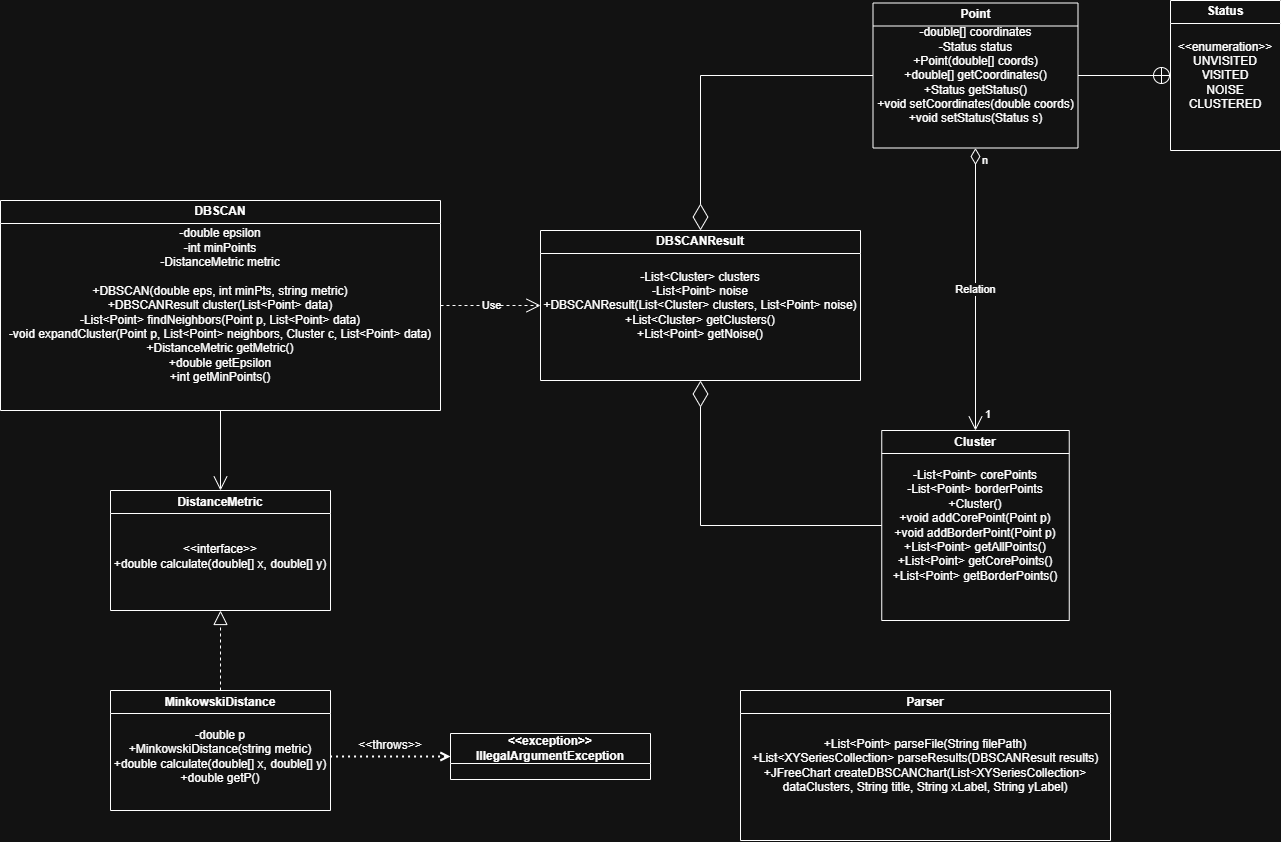
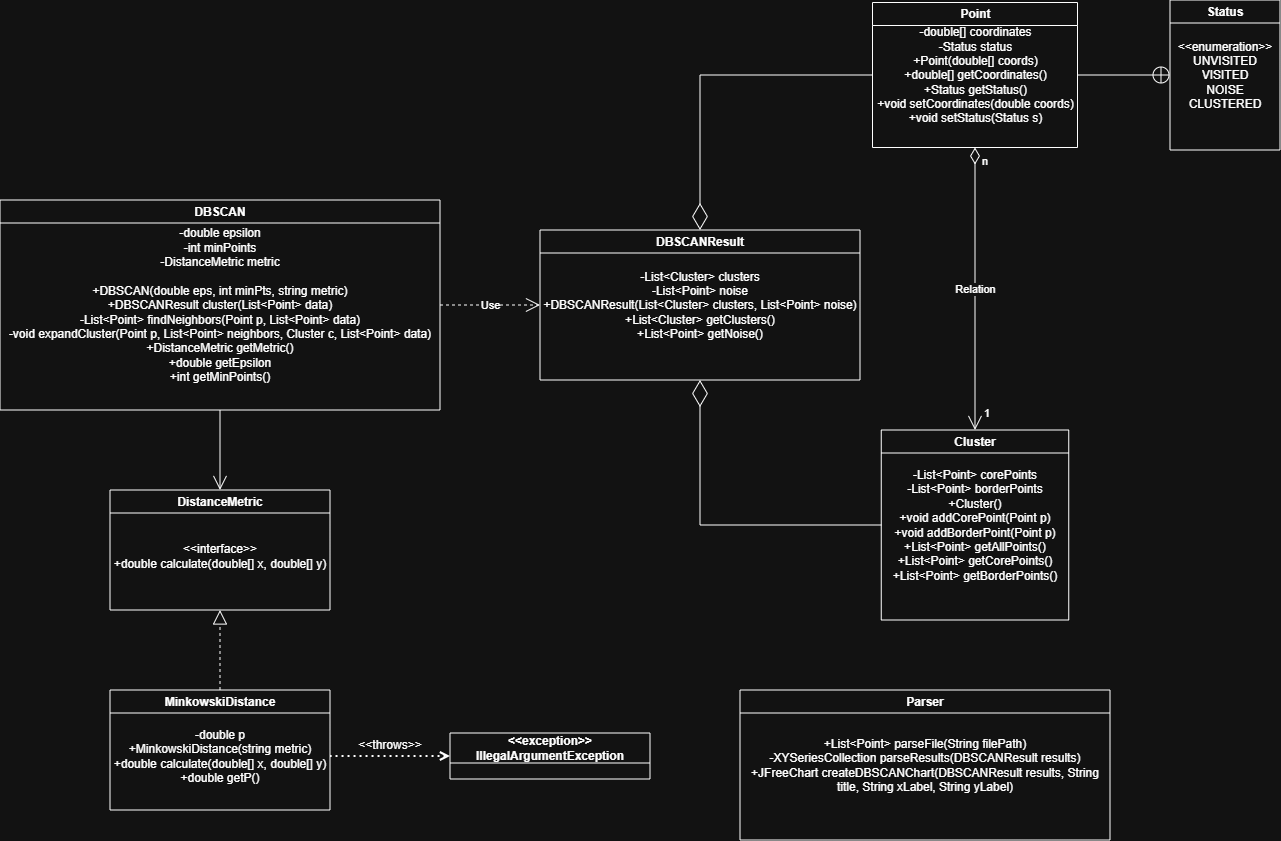
Update UML
UML updated and comments changed on a few functions.

diff --git a/src/main/java/dbscan/DBSCAN.java b/src/main/java/dbscan/DBSCAN.java
@@ -76,7 +76,7 @@ public class DBSCAN {
     for (int i = 0; i < queue.size(); i++) {
       Point currentPoint = queue.get(i);
 
-      // Any point that was already visited and was classified as noise is a border point.
+      // Any point that was classified as noise is a border point.
       if (currentPoint.geStatus() == Status.NOISE) {
         currentPoint.setStatus(Status.CLUSTERED);
         cluster.addBorderPoint(currentPoint);
@@ -90,7 +90,7 @@ public class DBSCAN {
       currentPoint.setStatus(Status.VISITED);
       List<Point> currentNeighbors = findNeighbors(currentPoint, data);
 
-      // If the current point has at least the minimum number of neighbors, it is a core point.
+      // If the current point has at least minPoint neighbors, it is a core point.
       if (currentNeighbors.size() >= this.getMinPoints()) {
         cluster.addCorePoint(currentPoint);
         // Expand queue to include the current point's neighbors.

diff --git a/src/main/java/dbscan/MinkowskiDistance.java b/src/main/java/dbscan/MinkowskiDistance.java
@@ -22,7 +22,7 @@ public class MinkowskiDistance implements DistanceMetric {
     } else {
       throw new IllegalArgumentException(
           String.format(
-              "You entered: %s as an argument! Please use either euclidean or manhattan.",
+              "You entered %s as an argument! Please use either euclidean or manhattan.",
               metric));
     }
   }